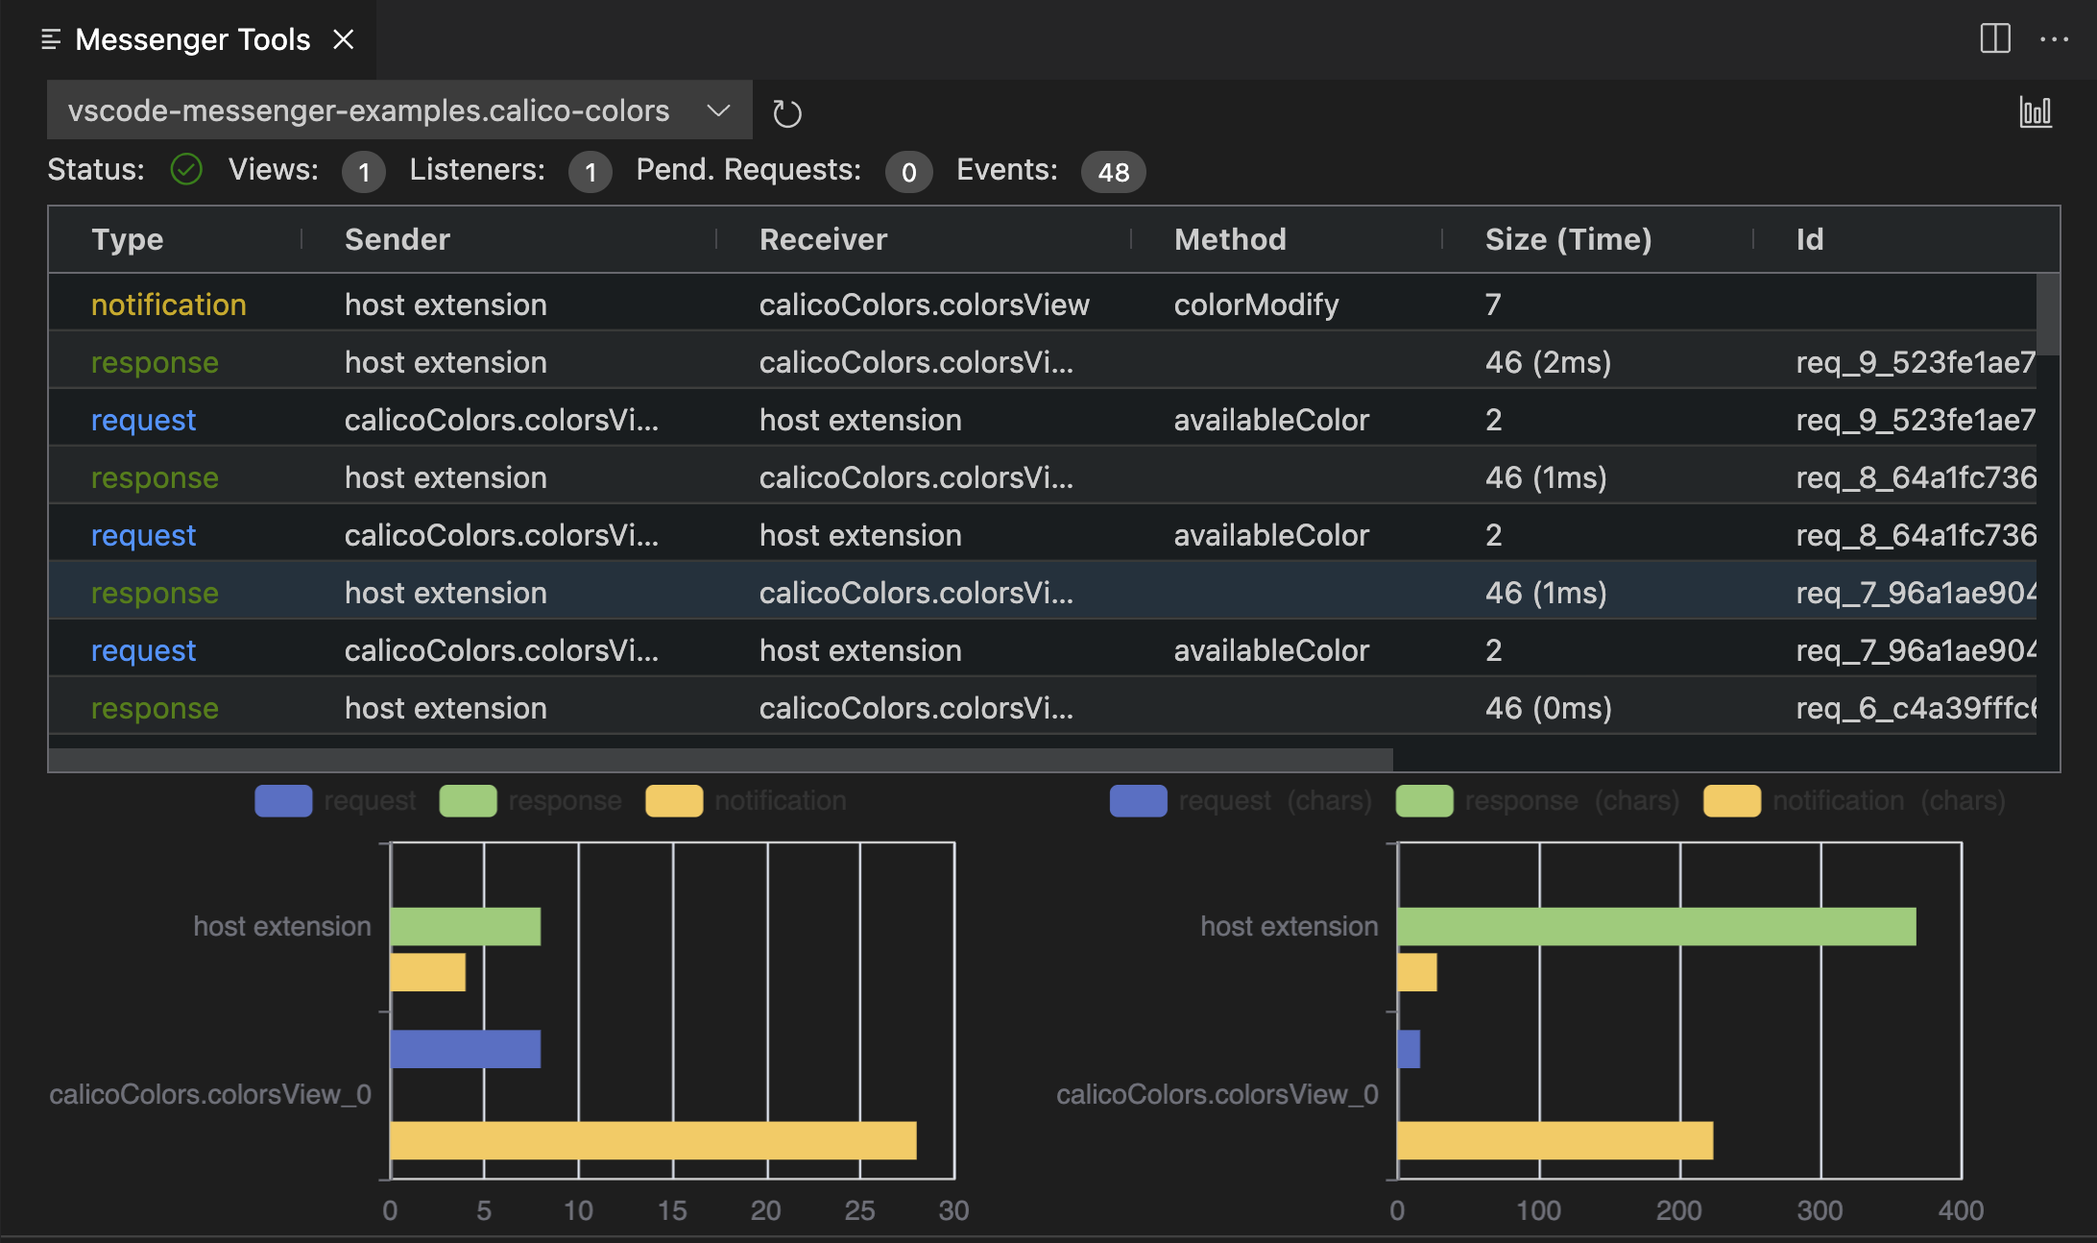
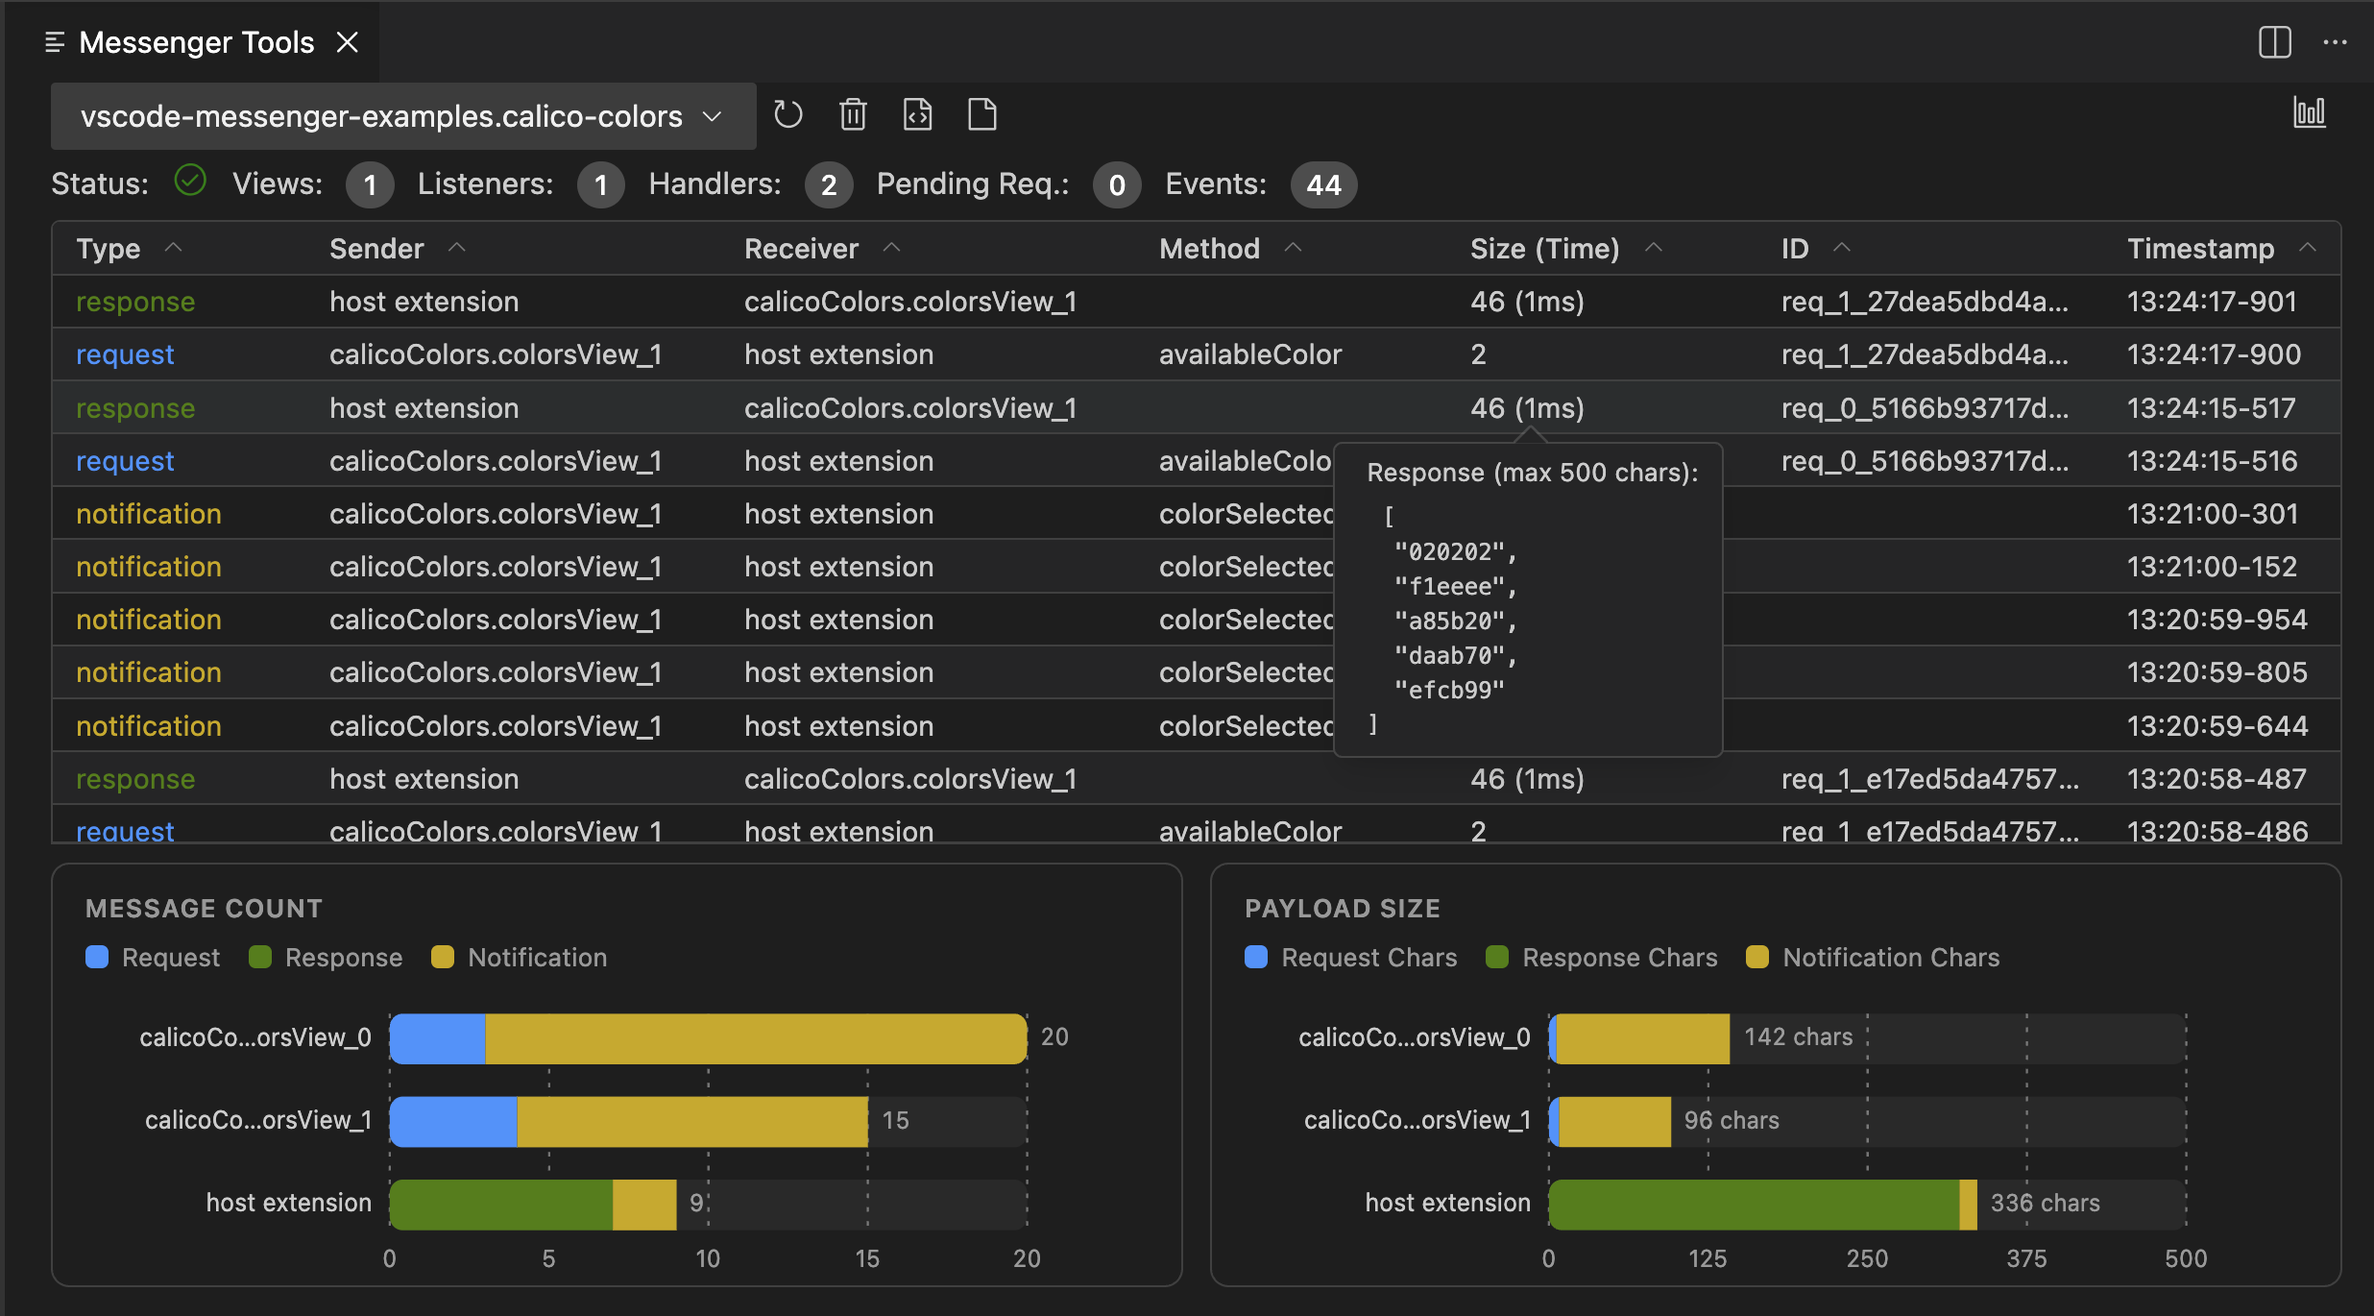
Update readme

Changed region(s): [[0.0, 0.0, 1.0, 1.0], [0.9652, 0.0618, 0.9963, 0.1236], [0.9341, 0.0, 0.9652, 0.0618]]

diff --git a/README.md b/README.md
@@ -7,88 +7,151 @@ RPC messaging library for the VS Code extension platform. Makes the communicatio
 [![License](https://img.shields.io/github/license/TypeFox/vscode-messenger?color=green)](https://github.com/TypeFox/vscode-messenger/blob/main/LICENSE)
 [![Codespaces](https://img.shields.io/badge/Codespaces-Open-blue?logo=github)](https://codespaces.new/TypeFox/vscode-messenger)
 
-#### Supported features
+## Features
 
-- Sending notification or a request from an __extension to a view__, a __view group__ or __broadcast__ to all registered views
-- Sending notification or a request from a __view to other view__, a view group or the host extension
-- Support for __sync and async__ request/notification handlers
-- Support for __request cancellation__
-- __Typed__ API
-- Automatically unregister views on view dispose
+- Send notifications or requests from an **extension to a view**, a **view group**, or **broadcast** to all registered views
+- Send notifications or requests from a **view to another view**, a view group, or the host extension
+- **Typed API** — `RequestType<P, R>` and `NotificationType<P>` enforce matching parameter and result types on both sides
+- Sync and async request/notification handlers
+- Request cancellation
+- Automatically unregisters views on dispose
 - Configurable logging
 
-#### Diagnostics vs-code extension
+## Packages
 
-[![Visual Studio Marketplace Version](https://img.shields.io/visual-studio-marketplace/v/typefox.vscode-messenger-devtools?label=VS-Code%20Marketplace)](https://marketplace.visualstudio.com/items?itemName=typefox.vscode-messenger-devtools)
+Install only what each side needs:
 
-[Devtool vscode extension](https://github.com/TypeFox/vscode-messenger/tree/main/packages/vscode-messenger-devtools) helps inspecting messages interaction between your extension components.
+| Package | Install in | Purpose |
+|---|---|---|
+| [`vscode-messenger`](https://www.npmjs.com/package/vscode-messenger) | Extension host | `Messenger` class, view registration, diagnostic API |
+| [`vscode-messenger-webview`](https://www.npmjs.com/package/vscode-messenger-webview) | Webview script | `Messenger` class for webview, `createCancellationToken` |
+| [`vscode-messenger-common`](https://www.npmjs.com/package/vscode-messenger-common) | Shared module | `NotificationType`, `RequestType`, `HOST_EXTENSION`, `BROADCAST` |
 
-#### Usage in an extension (TS example)
+**Tip:** Keep all `NotificationType` / `RequestType` declarations in a shared TypeScript module imported by both the extension and the webview. The same `method` string and parameter/result types must match on both ends.
+
+## Usage in an extension (TypeScript)
 
 ```ts
+import * as vscode from 'vscode';
+import { Messenger } from 'vscode-messenger';
+import { NotificationType, RequestType } from 'vscode-messenger-common';
+
 const messenger = new Messenger();
 
-// register one or more views
+// Register a webview view (or use registerWebviewPanel for WebviewPanel)
 messenger.registerWebviewView(webviewView);
 
-
-// Handle incoming view notification
+// Define message types — declare once, import on both sides
 const colorSelectType: NotificationType<string> = { method: 'colorSelected' };
+const availableColorsType: RequestType<string, string[]> = { method: 'availableColor' };
+const colorModifyType: NotificationType<string> = { method: 'colorModify' };
 
-messenger.onNotification(colorSelectType, (params: string) => {
-    vscode.window.activeTextEditor?.insertSnippet(new vscode.SnippetString(`#${params}`));
+// Handle a notification from the webview
+messenger.onNotification(colorSelectType, (color: string) => {
+    vscode.window.activeTextEditor?.insertSnippet(new vscode.SnippetString(`#${color}`));
 });
 
-// Handle view requests and return a result
-const availableColorsType: RequestType<string, string[]> = { method: 'availableColor' };
-
-messenger.onRequest(availableColorsType, (params: string) => {
+// Handle a request from the webview and return a result
+messenger.onRequest(availableColorsType, (_params: string) => {
     return ['020202', 'f1eeee', 'a85b20', 'daab70', 'efcb99'];
 });
 
-// Send a notification to a view of type 'calicoColors.colorsView'
-const colorModifyType: NotificationType<string> = { method: 'colorModify' };
+// Send a notification to all views of a given type
+messenger.sendNotification(colorModifyType, { type: 'webview', webviewType: 'calicoColors.colorsView' }, 'clear');
 
-messenger.sendNotification(colorModifyType, {type: 'webview', webviewType: 'calicoColors.colorsView' }, 'clear');
-
-
-// Send a request to a view of type 'calicoColors.colorsView' and get a result
-const selectedColor = await messenger.sendRequest({ method: 'getSelectedColor' }, {type: 'webview', webviewType: 'calicoColors.colorsView' }, '');
+// Send a request to a view and await the result
+const selectedColor = await messenger.sendRequest(
+    { method: 'getSelectedColor' },
+    { type: 'webview', webviewType: 'calicoColors.colorsView' },
+    ''
+);
 ```
 
-#### Usage in a webview (JS Example)
+## Usage in a webview (TypeScript)
 
-Using JS in this example for simplicity. You can use TypeScript as well.
+```ts
+import { Messenger } from 'vscode-messenger-webview';
+import { HOST_EXTENSION } from 'vscode-messenger-common';
+import { colorModifyType, availableColorsType, colorSelectType } from './shared/message-types';
 
-```js
-const vscode = acquireVsCodeApi();
-const vscode_messenger = require("vscode-messenger-webview");
+const messenger = new Messenger(); // acquireVsCodeApi() is called automatically
 
-const messenger = new vscode_messenger.Messenger(vscode);
-
-// Handle extension Notifications. For requests use `onRequest()` 
-messenger.onNotification({method: 'colorModify'}, (params) => {
-    switch(params) {
-        case 'add': {
-            addColor();
-            break;
-        }
-        case 'clear': {
-            colors = [];
-            updateColorList(colors);
-            break;
-        }
-    }
+// Handle notifications from the extension
+messenger.onNotification(colorModifyType, (action: string) => {
+    if (action === 'clear') clearColors();
+    if (action === 'add')   addColor();
 });
-messenger.start(); // start listening for incoming events
 
-// Send a request to your extension.
-// For notification use `sendNotification()`
- const colors = await messenger.sendRequest({ method: 'availableColors'}, HOST_EXTENSION, '');
- console.log(colors);
+messenger.start(); // required — starts listening for incoming messages
 
+// Send a request to the host extension
+const colors = await messenger.sendRequest(availableColorsType, HOST_EXTENSION, '');
+
+// Send a notification to the host extension
+messenger.sendNotification(colorSelectType, HOST_EXTENSION, 'a85b20');
 ```
 
-#### More examples
+> **Note:** `messenger.start()` must be called before any messages can be received. Forgetting it causes all incoming messages to be silently dropped.
 
-See tests for more examples.
+## Key concepts
+
+### Message participants
+
+| Participant | How to construct | Use for |
+|---|---|---|
+| Host extension | `HOST_EXTENSION` | Targeting the extension from a webview |
+| Webview by type | `{ type: 'webview', webviewType: '...' }` | All instances of a view type |
+| Webview by id | returned by `registerWebviewView` / `registerWebviewPanel` | One specific instance |
+| Broadcast | `BROADCAST` | All registered views (notifications only) |
+
+### Request cancellation
+
+```ts
+// Extension side — pass any CancellationToken
+const cts = new vscode.CancellationTokenSource();
+const result = await messenger.sendRequest(longOpType, target, params, cts.token);
+cts.cancel();
+
+// Webview side — bridge an AbortSignal
+import { createCancellationToken } from 'vscode-messenger-webview';
+const ctrl = new AbortController();
+const result = await messenger.sendRequest(longOpType, HOST_EXTENSION, params, createCancellationToken(ctrl.signal));
+ctrl.abort('timeout');
+```
+
+### Broadcast notifications
+
+A webview receives a broadcast only when registered with `broadcastMethods` listing the method:
+
+```ts
+// Extension: opt the view in to specific broadcast methods
+messenger.registerWebviewView(view, { broadcastMethods: [refreshType.method] });
+
+// Either side: broadcast to all opted-in views
+messenger.sendNotification(refreshType, BROADCAST);
+```
+
+## Diagnostics and devtools
+
+[![Visual Studio Marketplace Version](https://img.shields.io/visual-studio-marketplace/v/typefox.vscode-messenger-devtools?label=VS-Code%20Marketplace)](https://marketplace.visualstudio.com/items?itemName=typefox.vscode-messenger-devtools)
+
+The companion **[VS Code Messenger Developer Tool](https://marketplace.visualstudio.com/items?itemName=typefox.vscode-messenger-devtools)** extension visualizes live message traffic — requests, responses, and notifications — between the extension host and its webviews. To enable it, expose `messenger.diagnosticApi()` from your extension's `activate` return value:
+
+```ts
+import { Messenger, type MessengerDiagnostic } from 'vscode-messenger';
+
+const messenger = new Messenger();
+
+export function activate(context: vscode.ExtensionContext): MessengerDiagnostic {
+    // ... register views, handlers, etc.
+    return messenger.diagnosticApi();
+}
+```
+
+Open the devtool with **Developer: Open vscode-messenger devtools** from the Command Palette.
+
+See the [devtools README](packages/vscode-messenger-devtools/README.md) for full setup instructions, `DiagnosticOptions`, the event schema, and troubleshooting.
+
+## More examples
+
+The [calico-colors example](examples/calico-colors) demonstrates a complete extension with a `WebviewView` and a `WebviewPanel` sharing a single `Messenger` instance, typed message definitions in a shared module, broadcast usage, and diagnostic API integration.

diff --git a/packages/vscode-messenger-devtools/README.md b/packages/vscode-messenger-devtools/README.md
@@ -1,29 +1,123 @@
 # VS Code Messenger Developer Tool
 
-Shows messages sended between extension and registered extension webviews. Provides information about installed extensions that uses
-[vscode-messenger](https://github.com/TypeFox/vscode-messenger) library.
+Visualizes message traffic — requests, responses, and notifications — between a VS Code extension host and its registered webviews for extensions that use the [vscode-messenger](https://github.com/TypeFox/vscode-messenger) library. It is the fastest way to answer "is the message actually being sent?", "did the receiver get it?", and "what does the payload look like?" while developing or debugging.
 
-## Open Devtool View
+## Open the devtool view
 
-Open _Command Palette..._ (Shift + Cmd + P)
-Type _devtools_, execute command 'Developer: Open vscode-messenger devtools'
+Open the Command Palette (`Shift+Cmd+P` / `Ctrl+Shift+P`) and run **Developer: Open vscode-messenger devtools**.
 
-![Missing Devtool View Screenshot](https://github.com/TypeFox/vscode-messenger/blob/main/packages/vscode-messenger-devtools/media/view-screenshot.png?raw=true)
+The devtool lists every installed extension that depends on `vscode-messenger`. Select yours to see its registered webviews, pending requests, registered handlers, and a live event log.
 
-**Note:** Your extension must export `Messenger.diagnosticApi()` as public API. Otherwise it is not possible to display relevant information.
+![Devtool View Screenshot](https://github.com/TypeFox/vscode-messenger/blob/main/packages/vscode-messenger-devtools/media/view-screenshot.png?raw=true)
+
+## Exposing the diagnostic API from your extension
+
+The devtool reads from the public API your `activate` function returns. Your extension must call `messenger.diagnosticApi()` and return the result — otherwise the devtool can see that your extension uses the library but cannot display any traffic.
 
 ```ts
 import * as vscode from 'vscode';
-import { Messenger } from 'vscode-messenger';
+import { Messenger, type MessengerDiagnostic } from 'vscode-messenger';
 
 const messenger = new Messenger();
 
-export function activate(context: vscode.ExtensionContext) {
+export function activate(context: vscode.ExtensionContext): MessengerDiagnostic {
     // Your activation code...
     return messenger.diagnosticApi();
 }
 ```
 
-[Devtools Repository](https://github.com/TypeFox/vscode-messenger/tree/main/packages/vscode-messenger-devtools#readme)
+If your extension already exports a public API, spread the diagnostic methods into it:
 
-[Messenger Repository](https://github.com/TypeFox/vscode-messenger#readme)
+```ts
+export function activate(context: vscode.ExtensionContext) {
+    // Your activation code...
+    return {
+        ...yourApi,
+        ...messenger.diagnosticApi()
+    };
+}
+```
+
+The devtool checks `isMessengerDiagnostic(api)` against the returned object — it looks for `extensionInfo`, `addEventListener`, and `removeEventListener` on the value. Spreading preserves those.
+
+## `DiagnosticOptions`
+
+`diagnosticApi(options?)` accepts two optional flags. Both default to `false` to avoid leaking sensitive payload data to anything that can read your extension's public API.
+
+| Option | Default | Effect |
+|---|---|---|
+| `withParameterData` | `false` | Includes request/notification `params` as `MessengerEvent.parameter` in every event. |
+| `withResponseData` | `false` | Includes response `result` as `MessengerEvent.parameter` on `type: 'response'` events. |
+
+Enable both during development to see full payload values in the event details panel:
+
+```ts
+return messenger.diagnosticApi({ withParameterData: true, withResponseData: true });
+```
+
+## What the devtool shows
+
+The devtool calls `extensionInfo()` to populate the overview panel:
+
+- **webviews** — registered webview instances (`{ id, type }`)
+- **handlers** — registered message handlers (`{ method, count }`)
+- **pendingRequest** — count of in-flight requests
+- **diagnosticListeners** — count of active event subscribers
+
+It also subscribes via `addEventListener` to receive a `MessengerEvent` for every message that passes through the host-side `Messenger`:
+
+| Field | Description |
+|---|---|
+| `type` | `'request'`, `'response'`, `'notification'`, or `'unknown'` |
+| `id?` | Request id — set for requests and their matching responses |
+| `method?` | Message method name (absent on `response` events — correlate by `id`) |
+| `sender`, `receiver` | Stringified participants: `'host extension'`, `webviewId`, `webviewType`, or `'broadcast'` |
+| `parameter?` | Payload — only populated when `withParameterData` / `withResponseData` is enabled |
+| `error?` | Error message for failed responses |
+| `size` | Serialized payload byte-size estimate |
+| `timestamp` | `Date.now()` at the moment the event was emitted |
+
+## Customizing events before they reach the devtool
+
+You can wrap `addEventListener` to mutate events before any listener — including the devtool — sees them. A useful pattern is to decorate method names with their parameter values so the event timeline is easier to read:
+
+```ts
+export function activate(context: vscode.ExtensionContext): MessengerDiagnostic {
+    // Your activation code...
+
+    const diagnostics = messenger.diagnosticApi({
+        withParameterData: true,
+        withResponseData: true
+    });
+
+    return {
+        ...diagnostics,
+        addEventListener: (listener) => diagnostics.addEventListener(event => {
+            if (event.method === 'colorSelected') {
+                event.method = `colorSelected(${JSON.stringify(event.parameter)})`;
+            }
+            listener(event);
+        })
+    };
+}
+```
+
+The wrapper must still satisfy `isMessengerDiagnostic` — keep the original `extensionInfo` and `removeEventListener` on the returned object (the spread above handles this).
+
+## Troubleshooting
+
+**No row for my extension in the devtool**
+The devtool detected that your extension depends on `vscode-messenger` but `activate` either threw, returned `undefined`, or returned something where `isMessengerDiagnostic` is false. Confirm that `activate` returns the diagnostic object (or a spread that includes its three methods: `extensionInfo`, `addEventListener`, `removeEventListener`).
+
+**Extension is listed, but no events appear**
+`activate` returned the diagnostic API, but no traffic has been produced yet — trigger a message. Note that the host-side `Messenger` only observes host-side traffic; webview-internal processing does not produce events until a message is posted back to the host.
+
+**Events appear but `parameter` is always empty**
+`withParameterData` and `withResponseData` are both `false` by default. Pass `{ withParameterData: true, withResponseData: true }` to `diagnosticApi` in your dev build.
+
+**Events visible for one webview only**
+The diagnostic API observes only the `Messenger` instance you exposed. If your extension creates multiple `Messenger` instances (uncommon), each needs its own diagnostic export.
+
+---
+
+[Devtools Repository](https://github.com/TypeFox/vscode-messenger/tree/main/packages/vscode-messenger-devtools#readme) · [Messenger Repository](https://github.com/TypeFox/vscode-messenger#readme)
